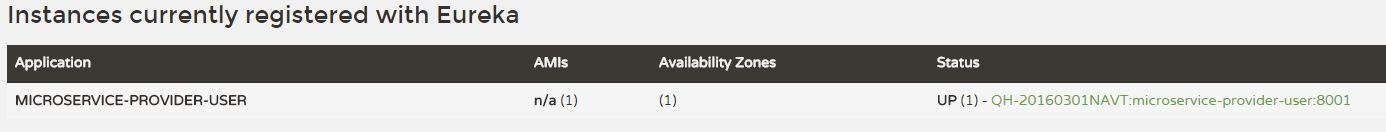
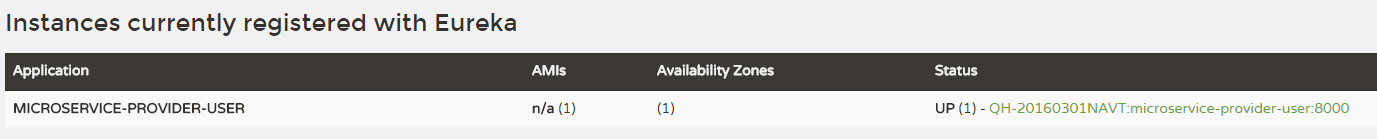
重新规划章节、文档

diff --git a/6 Hystrix Dashboard.md b/6 Hystrix Dashboard.md
@@ -1,0 +1,116 @@
+## Hystrix监控
+
+除了隔离依赖服务的调用以外，Hystrix还提供了近实时的监控，Hystrix会实时、累加地记录所有关于HystrixCommand的执行信息，包括每秒执行多少请求多少成功，多少失败等。上文提到的microservice-consumer-movie-ribbon-with-hystrix项目已经具备对Hystrix监控的能力，我们先进入测试，后文会描述原理。
+
+
+
+### 测试步骤
+
+1. 启动：microservice-discovery-eureka
+
+2. 启动：microservice-provider-user
+
+3. 启动：microservice-consumer-movie-ribbon-with-hystrix
+
+4. 访问：[http://localhost:8021/ribbon/1](http://localhost:8021/ribbon/1)，注意：该步骤不能省略，因为如果应用的所有接口都未被调用，将只会看到一个ping
+
+5. 访问：[http://localhost:8021/hystrix.stream](http://localhost:8021/hystrix.stream)，可以看到类似如下输出：
+
+   ```
+   data: {"type":"HystrixCommand","name":"findById","group":"RibbonHystrixService","currentTime":1472658867784,"isCircuitBreakerOpen":false,"errorPercentage":0,"errorCount":0,"requestCount":0,"rollingCountBadRequests":0....}
+   ```
+
+
+并且会不断刷新以获取实时的监控数据。但是纯文字的输出可读性实在是太差，运维人员很难一眼看出系统当前的运行状态。那么是不是有可视化的工具呢？
+
+
+
+### Hystrix Dashboard
+
+Hystrix Dashboard可以可视化查看实时监控数据。我们可以下载hystrix-dashboard的war包部署到诸如Tomcat之类的容器就，本文不做赘述另外Spring Cloud也提供了Hystrix Dashboard的整合，下面我们看看Spring Cloud是怎么玩转Hystrix Dashboard的。
+
+新建一个maven项目，在其中添加如下内容：
+
+```xml
+<?xml version="1.0" encoding="UTF-8"?>
+<project xmlns="http://maven.apache.org/POM/4.0.0" xmlns:xsi="http://www.w3.org/2001/XMLSchema-instance"
+	xsi:schemaLocation="http://maven.apache.org/POM/4.0.0 http://maven.apache.org/xsd/maven-4.0.0.xsd">
+	<modelVersion>4.0.0</modelVersion>
+
+	<artifactId>microservice-hystrix-dashboard</artifactId>
+	<packaging>jar</packaging>
+
+	<parent>
+		<groupId>com.itmuch.cloud</groupId>
+		<artifactId>spring-cloud-microservice-study</artifactId>
+		<version>0.0.1-SNAPSHOT</version>
+	</parent>
+
+	<dependencies>
+		<dependency>
+			<groupId>org.springframework.cloud</groupId>
+			<artifactId>spring-cloud-starter-hystrix-dashboard</artifactId>
+		</dependency>
+		<dependency>
+			<groupId>org.springframework.boot</groupId>
+			<artifactId>spring-boot-starter-actuator</artifactId>
+		</dependency>
+	</dependencies>
+</project>
+```
+
+编写启动类：HystrixDashboardApplication.java
+
+```java
+/**
+ * 测试步骤:
+ * 1. 访问http://localhost:7979/hystrix.stream 可以查看dashboard
+ * 2. 在上面的输入框填入: http://想监控的服务:端口/hystrix.stream进行测试
+ * 注意：首先要先调用一下想监控的服务的API，否则将会显示一个空的图表.
+ * @author eacdy
+ */
+@SpringBootApplication
+@EnableHystrixDashboard
+public class HystrixDashboardApplication {
+	public static void main(String[] args) {
+		new SpringApplicationBuilder(HystrixDashboardApplication.class).web(true).run(args);
+	}
+}
+```
+
+配置文件：application.yml
+
+```yaml
+spring:
+  application:
+    name: hystrix-dashboard
+server:
+  port: 8031
+```
+
+启动后，将会看到如下界面：
+
+![Hystrix Dashboard](images/hystrix-dashboard-1.png)
+
+此时，我们在输入框中输入[http://localhost:8021/hystrix.stream](http://localhost:8021/hystrix.stream)，并随意设置一个Title后，点击Monitor Stream按钮，会出现如下界面：
+
+![Hystrix Dashboard 监控](images/hystrix-dashboard-2.png)
+
+此时我们会看到findById这个API的各种指标。Hystrix Dashboard Wiki上详细说明了图上每个指标的含义，如下图：
+
+![Hystrix Dashboard pic description](images/hystrix-dashboard-3.png)
+
+
+
+此时，我们可以尝试将microservice-provider-user停止，然后重复访问多次[http://localhost:8021/ribbon/1](http://localhost:8021/ribbon/1)（20次以上），会发现断路器状态会变为开启。
+
+
+
+### Turbine
+
+在复杂的分布式系统中，相同服务的结点经常需要部署上百甚至上千个，很多时候，运维人员希望能够把相同服务的节点状态以一个整体集群的形式展现出来，这样可以更好的把握整个系统的状态。 为此，Netflix提供了一个开源项目（Turbine）来提供把多个hystrix.stream的内容聚合为一个数据源供Dashboard展示。 
+
+和Dashboard一样，Turbine也可以下载war包部署到Web容器，本文不做赘述。下面讨论Spring Cloud是怎么使用Turbine的。
+
+
+

diff --git a/3 服务提供者.md b/3 服务提供者.md
@@ -1,6 +1,6 @@
 ## 服务提供者和服务消费者
 
-“服务提供者”和“服务消费者”的名词是借用的，笔者并没有在Spring Cloud中看到这样的概念。下面这张表格，简单描述了服务提供者/消费者是什么：
+下面这张表格，简单描述了服务提供者/消费者是什么：
 
 | 名词    | 概念                      |
 | ----- | ----------------------- |
@@ -9,7 +9,7 @@
 
 
 
-## 服务提供者（microservice-provider-user）
+## 服务提供者代码示例
 
 这是一个稍微有点复杂的程序。我们使用spring-data-jpa操作h2数据库，同时将该服务注册到注册中心Eureka中。
 
@@ -30,8 +30,8 @@
 		<version>0.0.1-SNAPSHOT</version>
 	</parent>
 
-	<!-- 添加Eureka的依赖 -->
 	<dependencies>
+		<!-- 添加Eureka的依赖 -->
 		<dependency>
 			<groupId>org.springframework.cloud</groupId>
 			<artifactId>spring-cloud-starter-eureka</artifactId>
@@ -46,7 +46,7 @@
 			<groupId>com.h2database</groupId>
 			<artifactId>h2</artifactId>
 		</dependency>
-      
+
 		<dependency>
 			<groupId>org.springframework.boot</groupId>
 			<artifactId>spring-boot-starter-actuator</artifactId>
@@ -59,7 +59,7 @@
 
 ```yaml
 server:
-  port: 8001
+  port: 8000
 spring:
   application:
     name: microservice-provider-user    # 项目名称尽量用小写
@@ -136,16 +136,16 @@ public class UserController {
 	 */
 	@GetMapping("/{id}")
 	public User findById(@PathVariable Long id) {
-		User findOne = userRepository.findOne(id);
-		return findOne ;
+		User findOne = this.userRepository.findOne(id);
+		return findOne;
 	}
-	
+
 	/**
 	 * 本地服务实例的信息
 	 * @return
 	 */
 	@GetMapping("/instance-info")
-	public ServiceInstance showInfo(){
+	public ServiceInstance showInfo() {
 		ServiceInstance localServiceInstance = this.discoveryClient.getLocalServiceInstance();
 		return localServiceInstance;
 	}
@@ -165,7 +165,7 @@ public class User {
 	@Column
 	private Integer age;
 	...
-	//getters and setters...
+	// getters and setters
 }
 ```
 
@@ -189,20 +189,20 @@ public class UserApplication {
 
 ![user-service服务注册到Eureka上](images/eureka-with-provider.png)
 
-访问：[http://localhost:8001/instance-info](http://localhost:8001/instance-info)，返回结果：
+访问：[http://localhost:8000/instance-info](http://localhost:8000/instance-info)，返回结果：
 
 ```json
 {
-    "host": "10.0.75.1",
-    "port": 8001,
+    "host": "192.168.0.59",
+    "port": 8000,
     "metadata": {},
-    "uri": "http://10.0.75.1:8001",
+    "uri": "http://192.168.0.59:8000",
     "secure": false,
     "serviceId": "microservice-provider-user"
 }
 ```
 
-访问：[http://discovery:8001/1，返回结果：
+访问：[http://discovery:8000/1](http://discovery:8000/1)，返回结果：
 
 ```json
 {

diff --git a/1 序言.md b/1 序言.md
@@ -43,7 +43,27 @@ Spring Cloud 项目主页：[http://projects.spring.io/spring-cloud/](http://pro
 
 | 主机名配置（C:\Windows\System32\drivers\etc\hosts文件） |
 | ---------------------------------------- |
-| 127.0.0.1    discovery configserver gateway |
+| 127.0.0.1 discovery configserver gateway movie user feign ribbon |
+
+主机规划：
+
+| 项目名称                                     | 端口   | 描述                     | URL             |
+| ---------------------------------------- | ---- | ---------------------- | --------------- |
+| microservice-consumer-movie-feign        | 8020 | Feign Demo             | /feign/1        |
+| microservice-consumer-movie-feign-with-hystrix | 8021 | Feign Hystrix Demo     | /feign/1        |
+| microservice-consumer-movie-feign-with-hystrix-stream | 8022 | Hystrix Dashboard Demo | /feign/1        |
+| microservice-consumer-movie-ribbon       | 8010 | Ribbon Demo            | /ribbon/1       |
+| microservice-consumer-movie-ribbon-with-hystrix | 8011 | Ribbon Hystrix Demo    | /ribbon/1       |
+| microservice-discovery-eureka            | 8761 | 注册中心                   | /               |
+| microservice-hystrix-dashboard           | 8030 | hystrix监控              | /hystrix.stream |
+| microservice-hystrix-turbine             | 8031 | turbine                | /turbine.stream |
+| microservice-provider-user               | 8000 | 服务提供者                  | /1              |
+|                                          |      |                        |                 |
+|                                          |      |                        |                 |
+
+Spring Cloud所有的配置项：
+
+> [http://cloud.spring.io/spring-cloud-static/Brixton.SR5/#_appendix_compendium_of_configuration_properties](http://cloud.spring.io/spring-cloud-static/Brixton.SR5/#_appendix_compendium_of_configuration_properties)
 
 在进入主题之前，我们首先创建一个父项目（spring-cloud-microservice-study），这样可以对项目中的Maven依赖进行统一的管理。
 
@@ -61,6 +81,13 @@ Spring Cloud 项目主页：[http://projects.spring.io/spring-cloud/](http://pro
 	<modules>
 		<module>microservice-discovery-eureka</module>
 		<module>microservice-provider-user</module>
+		<module>microservice-consumer-movie-ribbon</module>
+		<module>microservice-consumer-movie-feign</module>
+		<module>microservice-consumer-movie-ribbon-with-hystrix</module>
+		<module>microservice-consumer-movie-feign-with-hystrix</module>
+		<module>microservice-hystrix-dashboard</module>
+		<module>microservice-consumer-movie-feign-with-hystrix-stream</module>
+		<module>microservice-hystrix-turbine</module>
 	</modules>
 
 	<!-- 使用最新的spring-boot版本 -->

diff --git a/SUMMARY.md b/SUMMARY.md
@@ -5,5 +5,8 @@
 * [第2章：服务发现](2 服务发现.md)
 * [第3章：服务提供者](3 服务提供者.md)
 * [第4章：服务消费者](4 服务消费者.md)
+	- [第1节：准备工作](4.1 准备工作.md)
+	- [第2节：Ribbon](4.2 Ribbon.md)
+	- [第3节：Feign](4.3 Feign.md)
 * [第5章：熔断器](5 熔断器.md)
 
